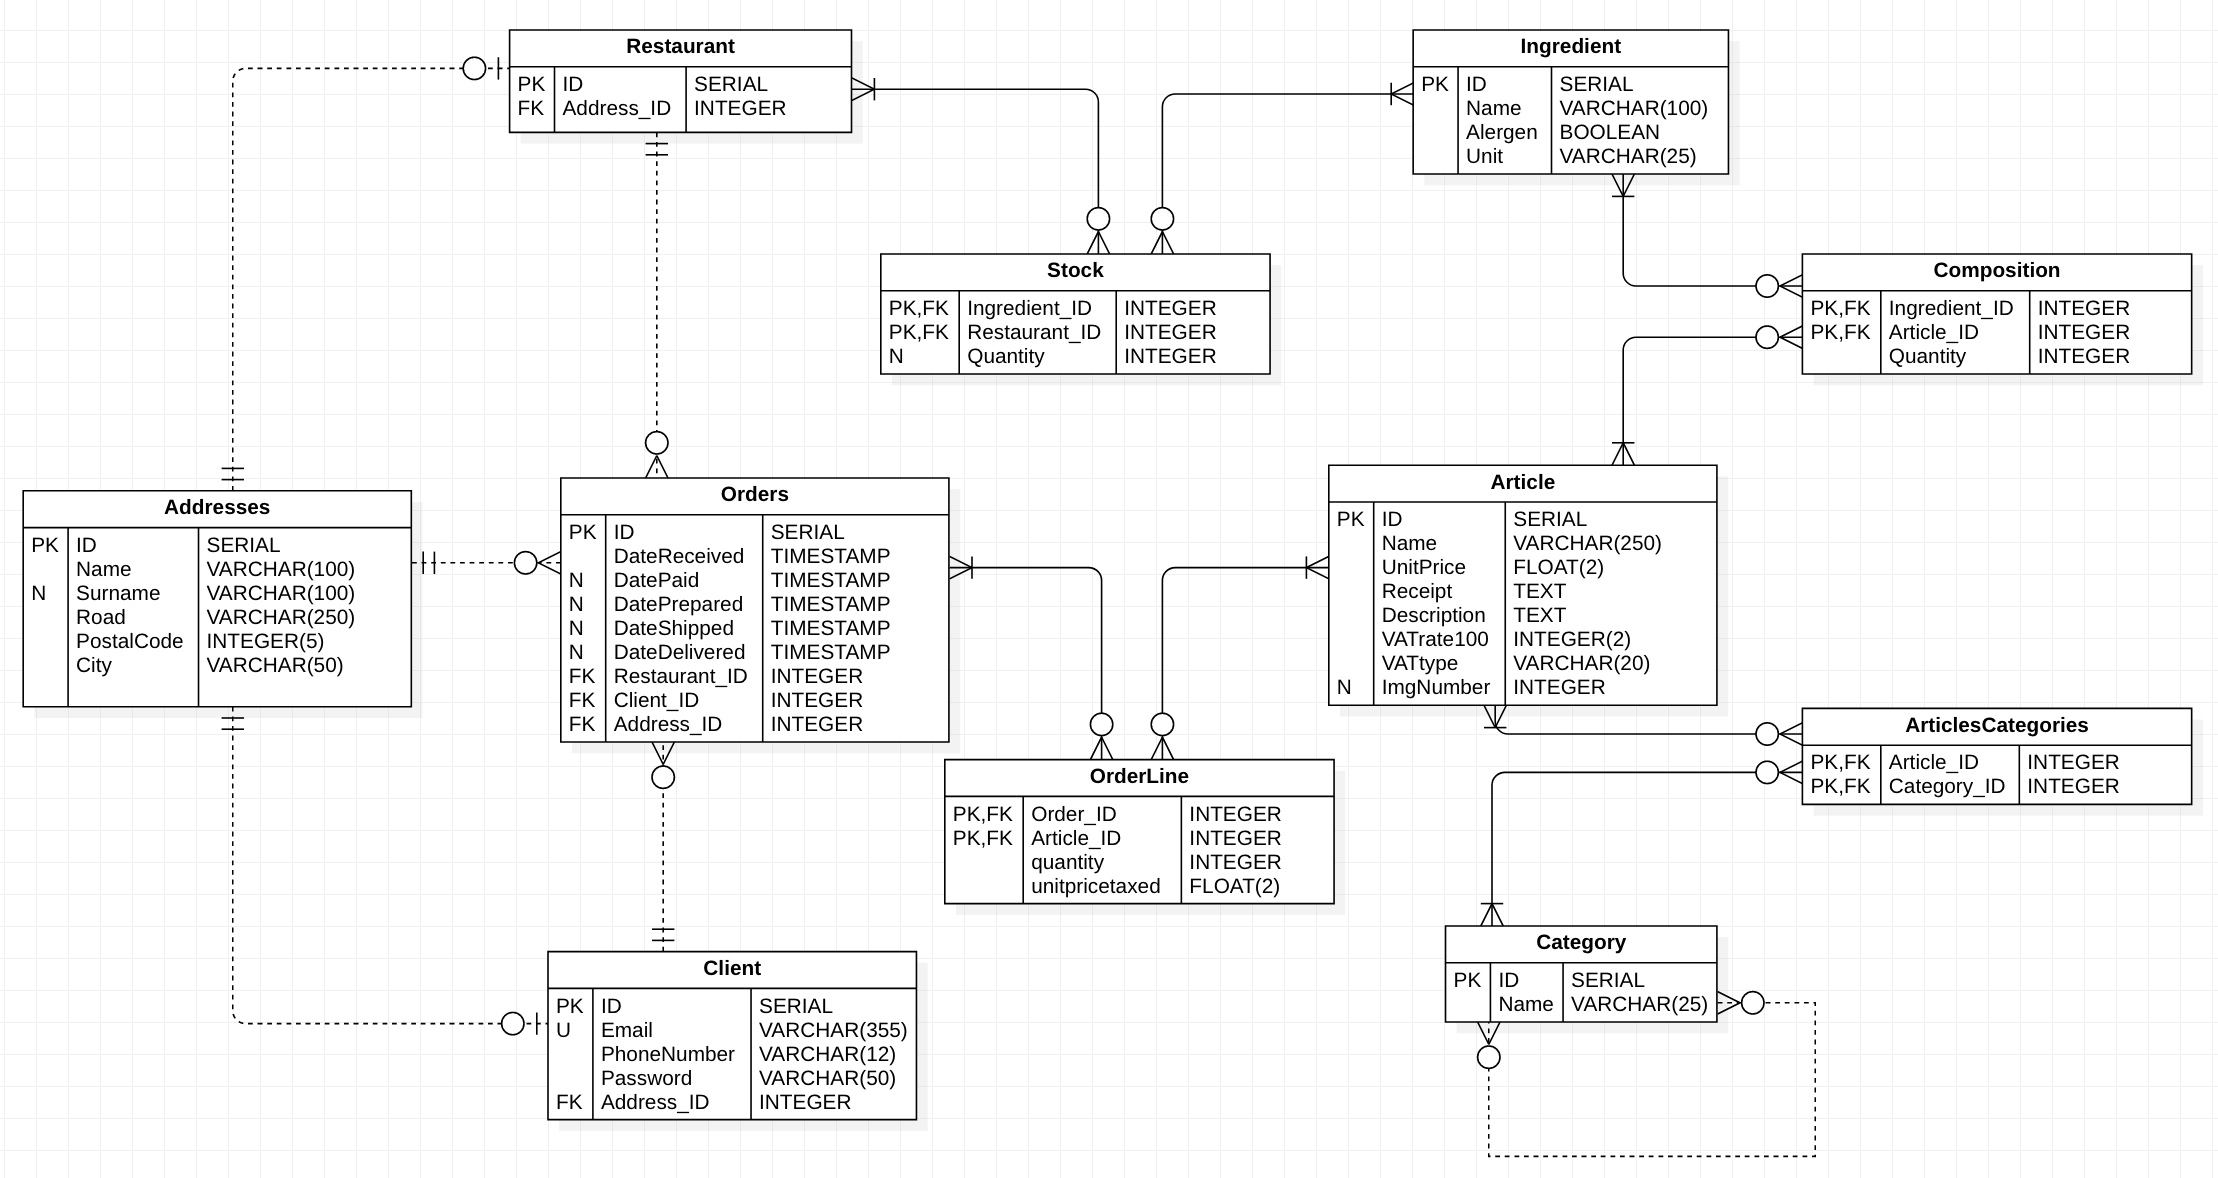
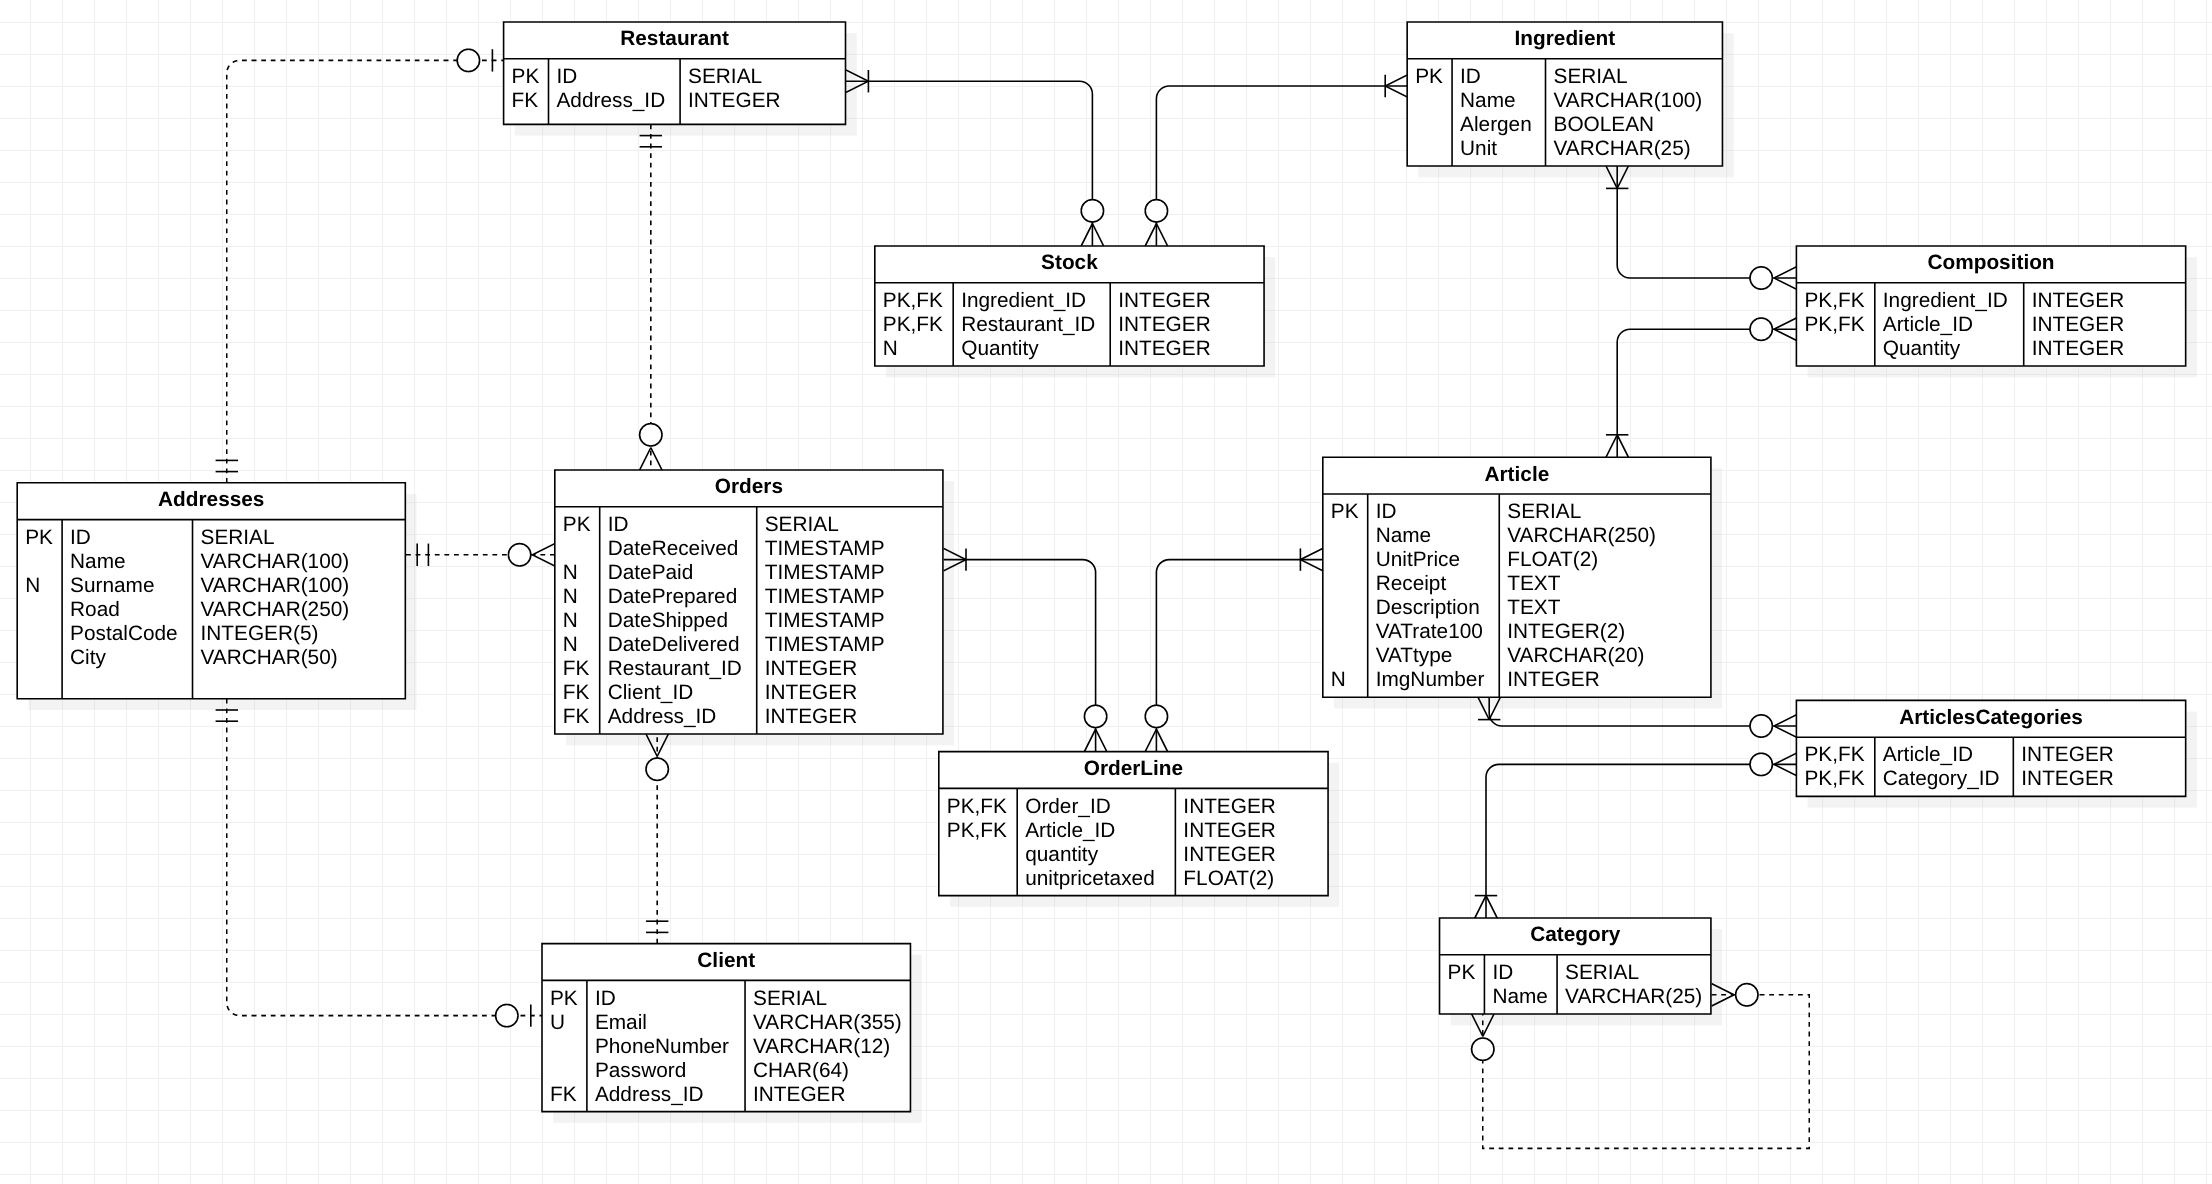
Modify README and ERD

diff --git a/README.md b/README.md
@@ -1,8 +1,12 @@
 # Projet6
 
 This project is to create, populate and test a Database for a pizzeria restaurant.
-It uses [Moockaroo](https://mockaroo.com/)
+It uses [Moockaroo](https://mockaroo.com/) (it would have been possible to use [Faker](https://pypi.org/project/Faker/))
 
 The ERD (Entity Relation) Diagram is given bellow :
 ![MPD](/ERDDiagram.png)
 
+Good ressources for learning UML are :
+- [Learn UML Developpez.net](https://laurent-audibert.developpez.com/Cours-UML/)
+- [Deploiement Lucidchart](https://www.lucidchart.com/pages/fr/tutoriel-sur-les-diagrammes-de-deploiement)
+- [Composants Lucidchart](https://www.lucidchart.com/pages/uml-component-diagram)
